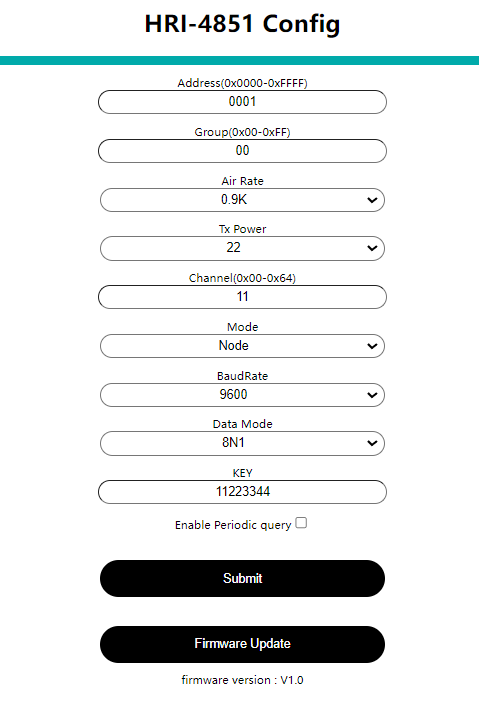
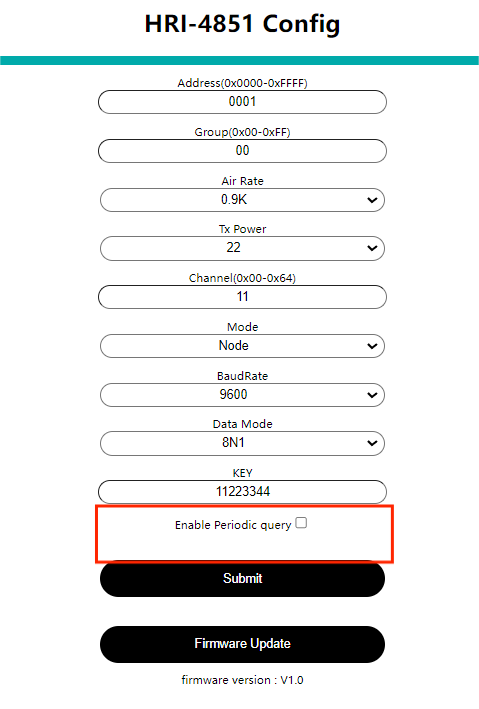
4851polling

Changed region(s): [[0.1754, 0.7137, 0.8476, 0.8068], [0.9937, 0.0621, 1.0, 0.0931]]

diff --git a/doc/ready_to_use/hri-485x/source/hri-4851.md b/doc/ready_to_use/hri-485x/source/hri-4851.md
@@ -41,9 +41,13 @@
 ``` {Tip} When the Address is *FFFF*, the device communicates with a device of any address(Group still has to be the same)
 ```
 
-1. Click `Submit` when the configuration is complete. 
+3. By clicking the `Enable periodic query` option, you can set up to 10 polling commands, and when multiple commands are run at the same time, they will be executed automatically at five-second intervals.
 
-   **If you need to upload HRI-4851 data to the server, you need to use with HRI-4852: [HRI-4852 User Manual](docs.heltec.org/en/ready_to_use/hri-485x/hri-4852.html)**
+   ![](img/03.png)
+
+4. Click `Submit` when the configuration is complete. 
+
+**If you need to upload HRI-4851 data to the server, you need to use with HRI-4852: [HRI-4852 User Manual](docs.heltec.org/en/ready_to_use/hri-485x/hri-4852.html)**
 
 ## Data Format
 As shown above, HRI-4851 with the same parameters can communicate with each other, that is, A terminal sends *0xaa 0xbb*, and B terminal receives *0xaa 0xbb*.
